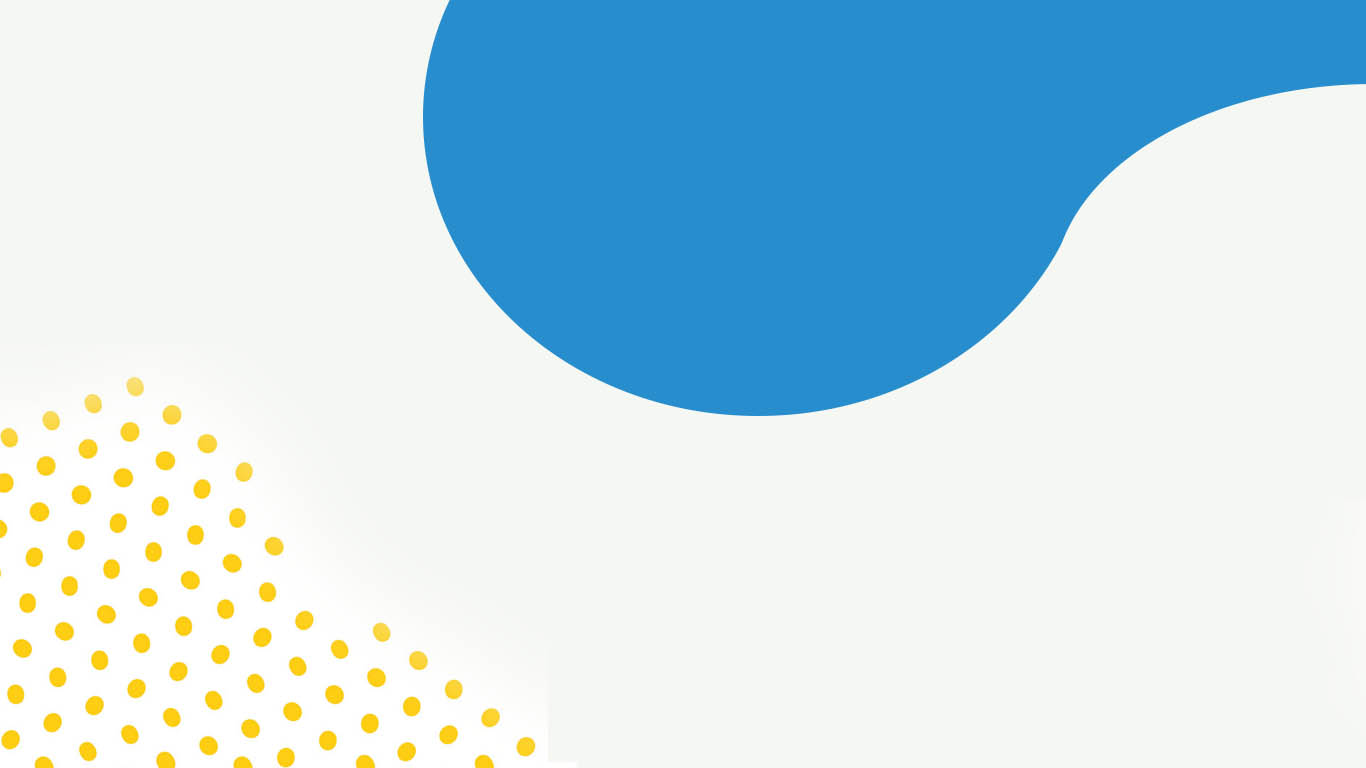
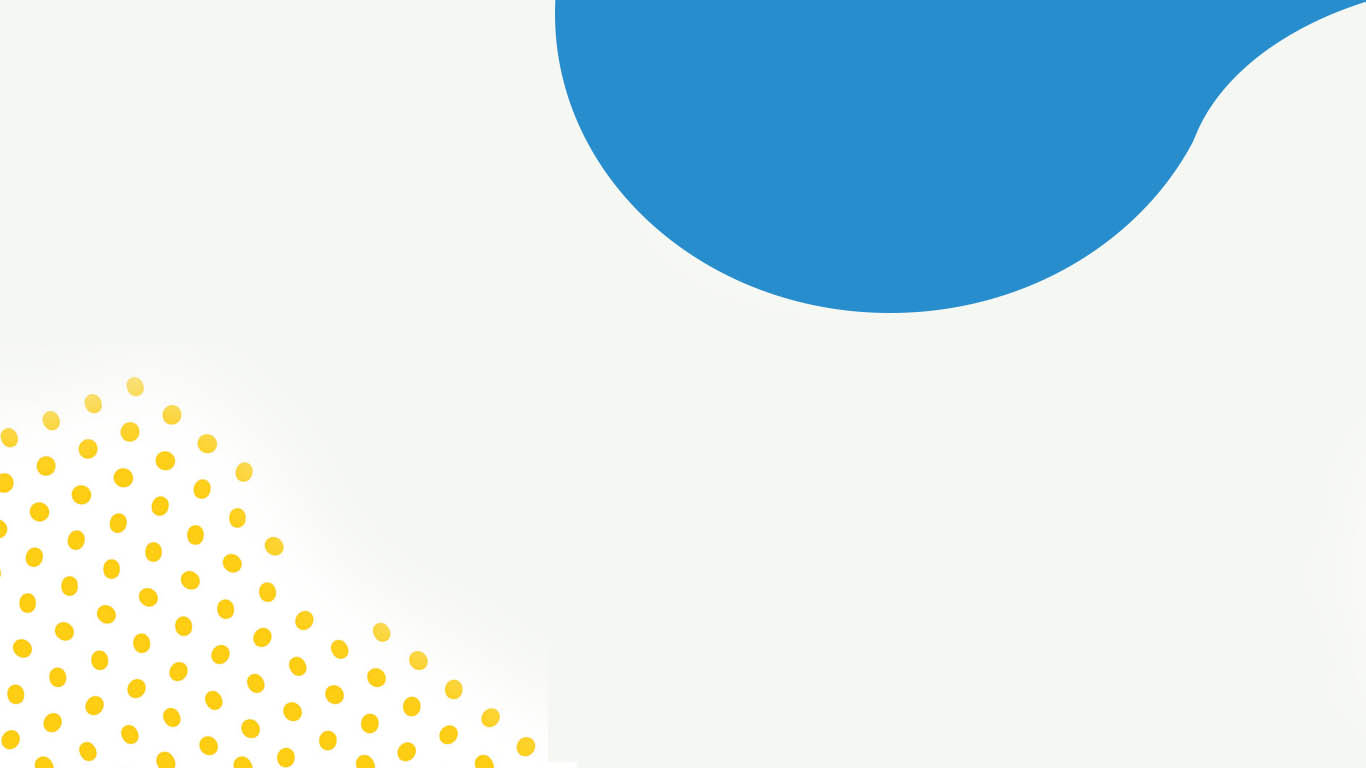
desapeare device

Changed region(s): [[0.3075, 0.0, 1.0, 0.5625]]

diff --git a/index.html b/index.html
@@ -194,15 +194,17 @@
 
 
 <article id="slide011" class="slide fs">
-    <div class="bcg">
+    <div class="bcg ">
+        <div class="sb3-img">
                <h1 id="red"><img  src="img/cardtrige.png" width="280"></h1>
                 <div class="wrapper" style="text-align: center;">
                    <!-- <img class="cardtrige" src="img/cardtrige.png" width="280"> -->
-                        <img class="device" src="img/studybuddy3-screen.png" width="700">
+                        <img class="device " src="img/studybuddy3-screen.png" width="700">
                         <!-- <p class="model"><a href="#sbmodel">VIEW 3D MODEL <span><img src="img/model.png" width="64"></span></a></p> -->
                     <section>
                         
                     </section></div>
+                    </div>
                 </div> <!-- .wrapper -->
             </article>
 
@@ -211,8 +213,8 @@
 <article id="cb033" class="content-block2">
                 <div class="wrapper">
                     <br>
-                    <section>
-                        <img src="img/sb3-top.png">
+                    <section class="">
+                        <img class="" src="img/sb3-top.png">
                     </section>
                      <br>
                 </div> <!-- .wrapper -->

diff --git a/js/main.js b/js/main.js
@@ -203,6 +203,9 @@
 	    	//.set($('#slide01 .image'), {text: "<img class='device' src='img/sbFrontFrame.png'>"})
 	    	.fromTo($('#slide011 h1'), 10.7, {y: '+=20'}, {y: '+=130%', autoAlpha: 1, ease:Power1.easeOut}, '+=0.4')
 	    	.fromTo($('#slide011 img.cardtrige'),1,{x:0}, {x:100})
+	    	.fromTo($('#slide011 .sb3-img'),5,{autoAlpha: 1, ease:Power1.easeOut}, {autoAlpha: 0, ease:Power1.easeOut})
+	    	
+
 	    	//.fromTo($('#slide01 section'), 0.6, {y: '+=20'}, {y: 0, autoAlpha: 1, ease:Power1.easeOut}, '-=0.6')
 	    	.set($('#slide01 h1'), {autoAlpha: 1}, '+=2');
 
